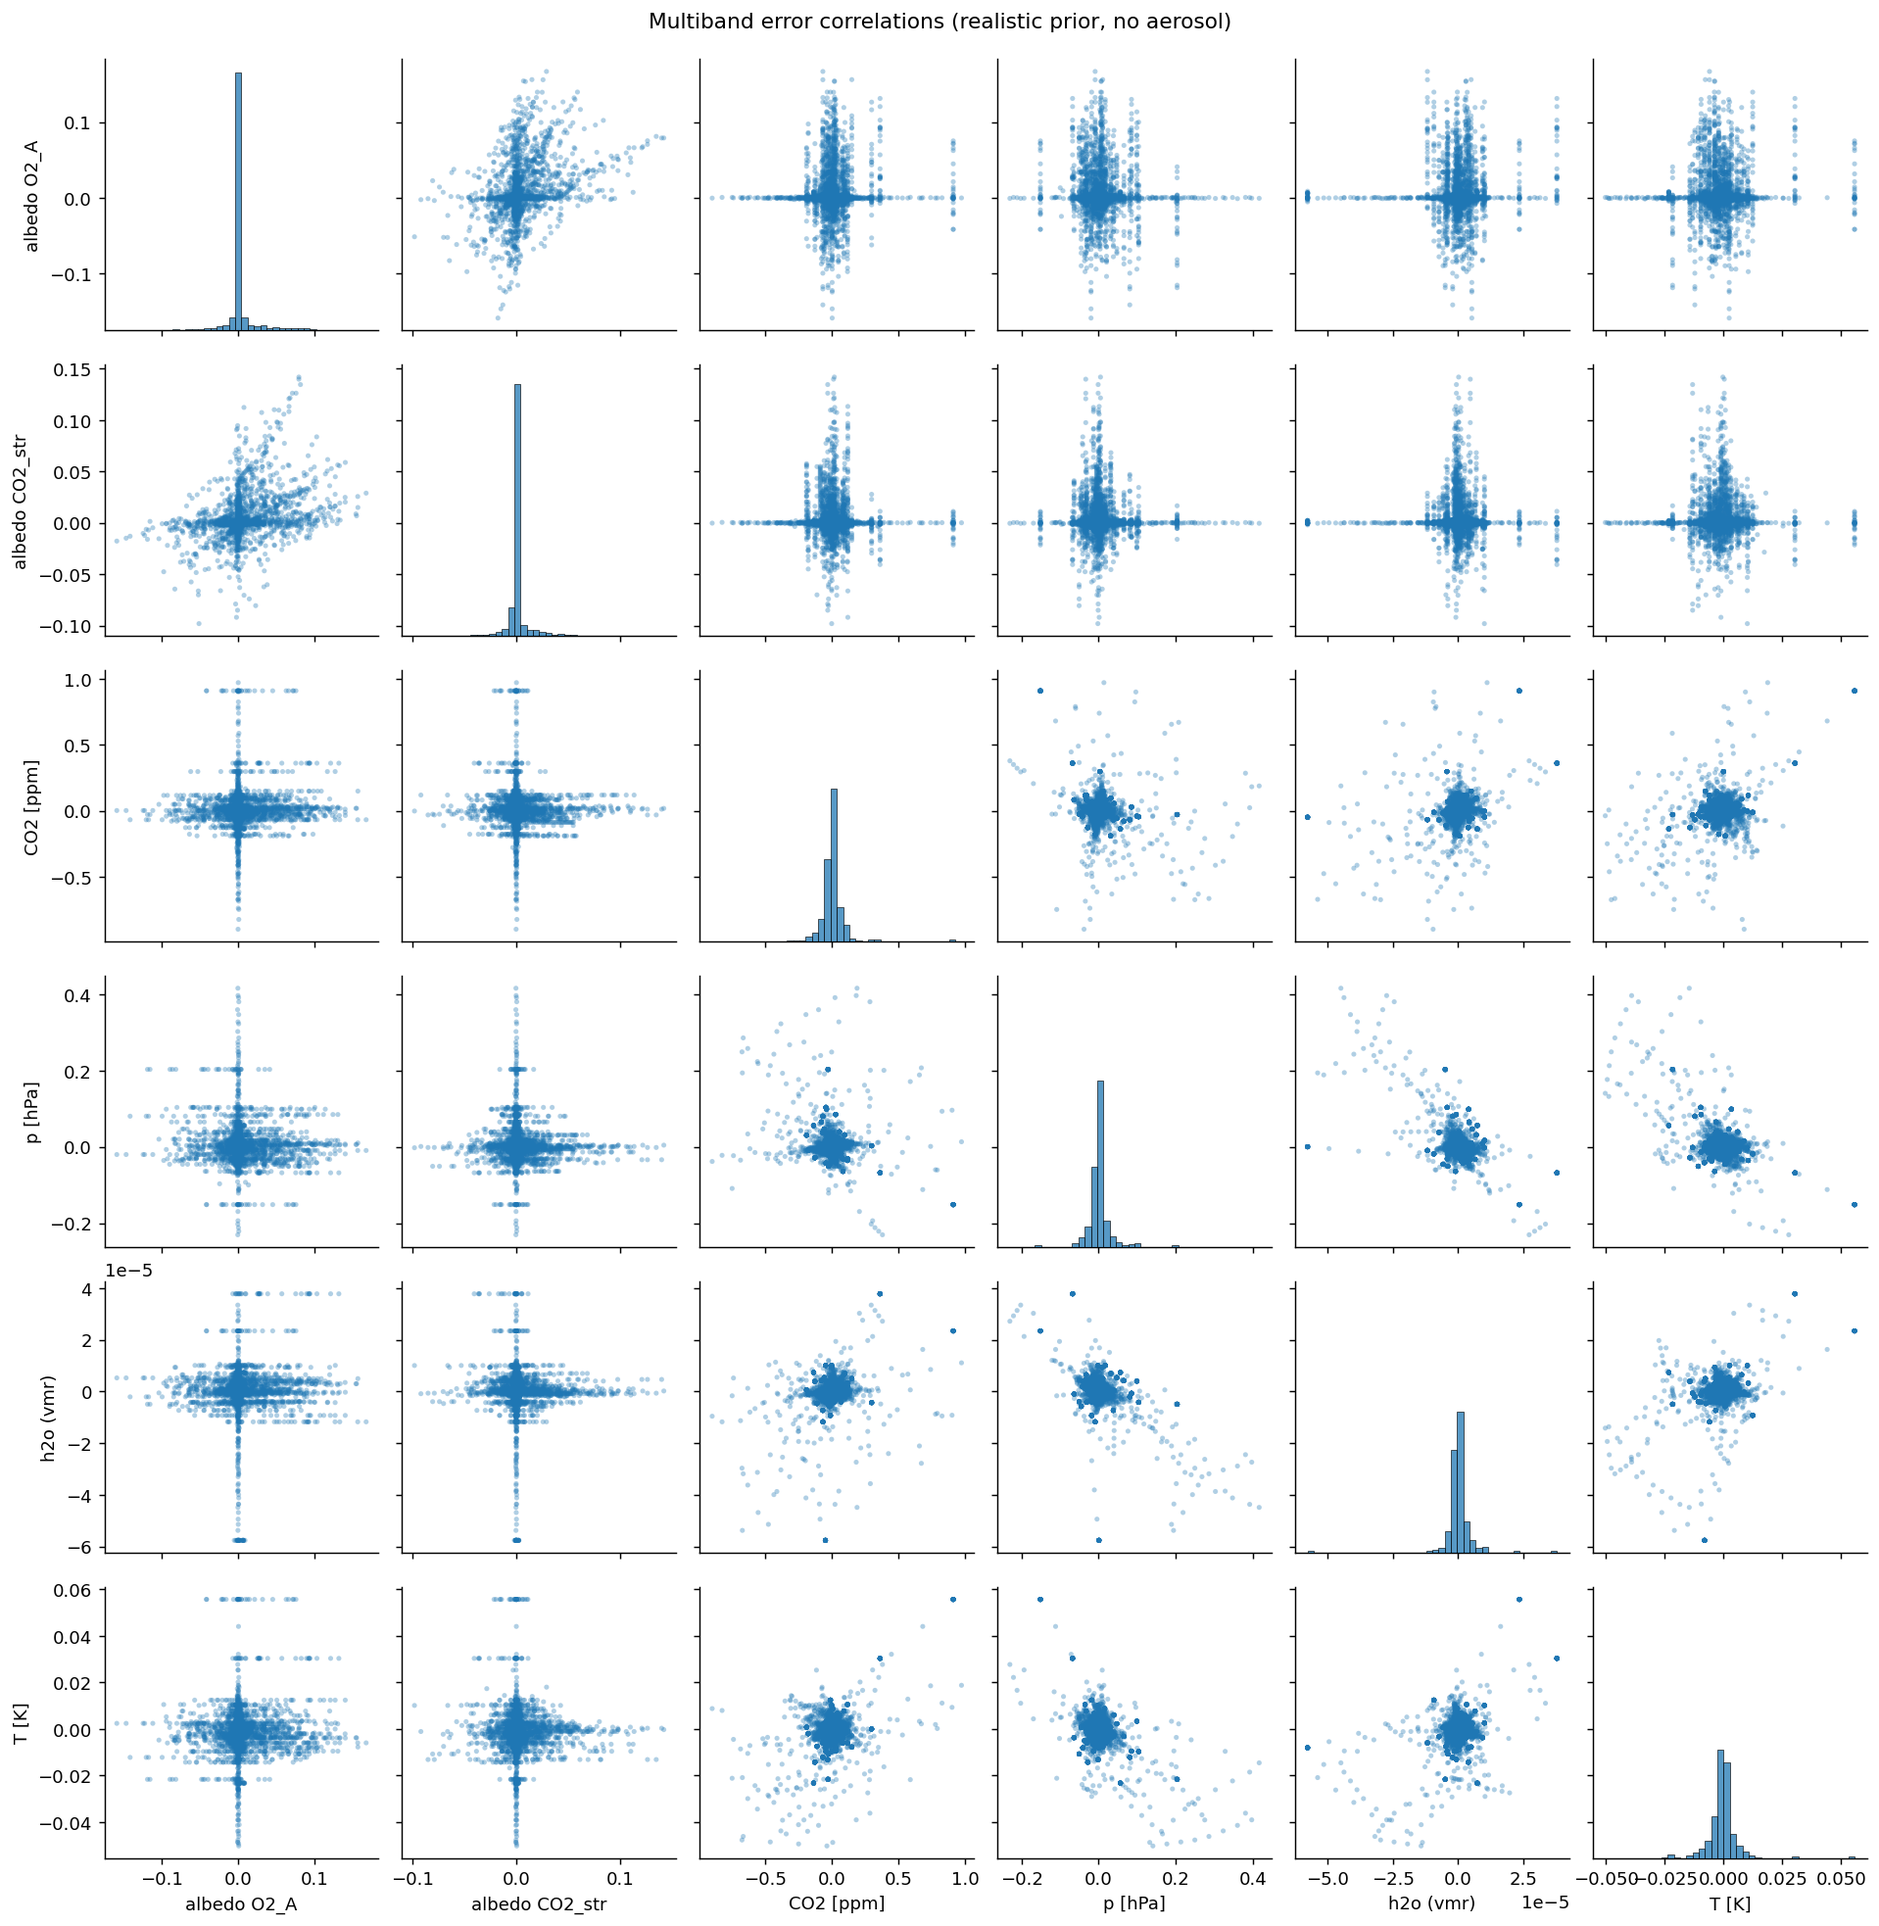
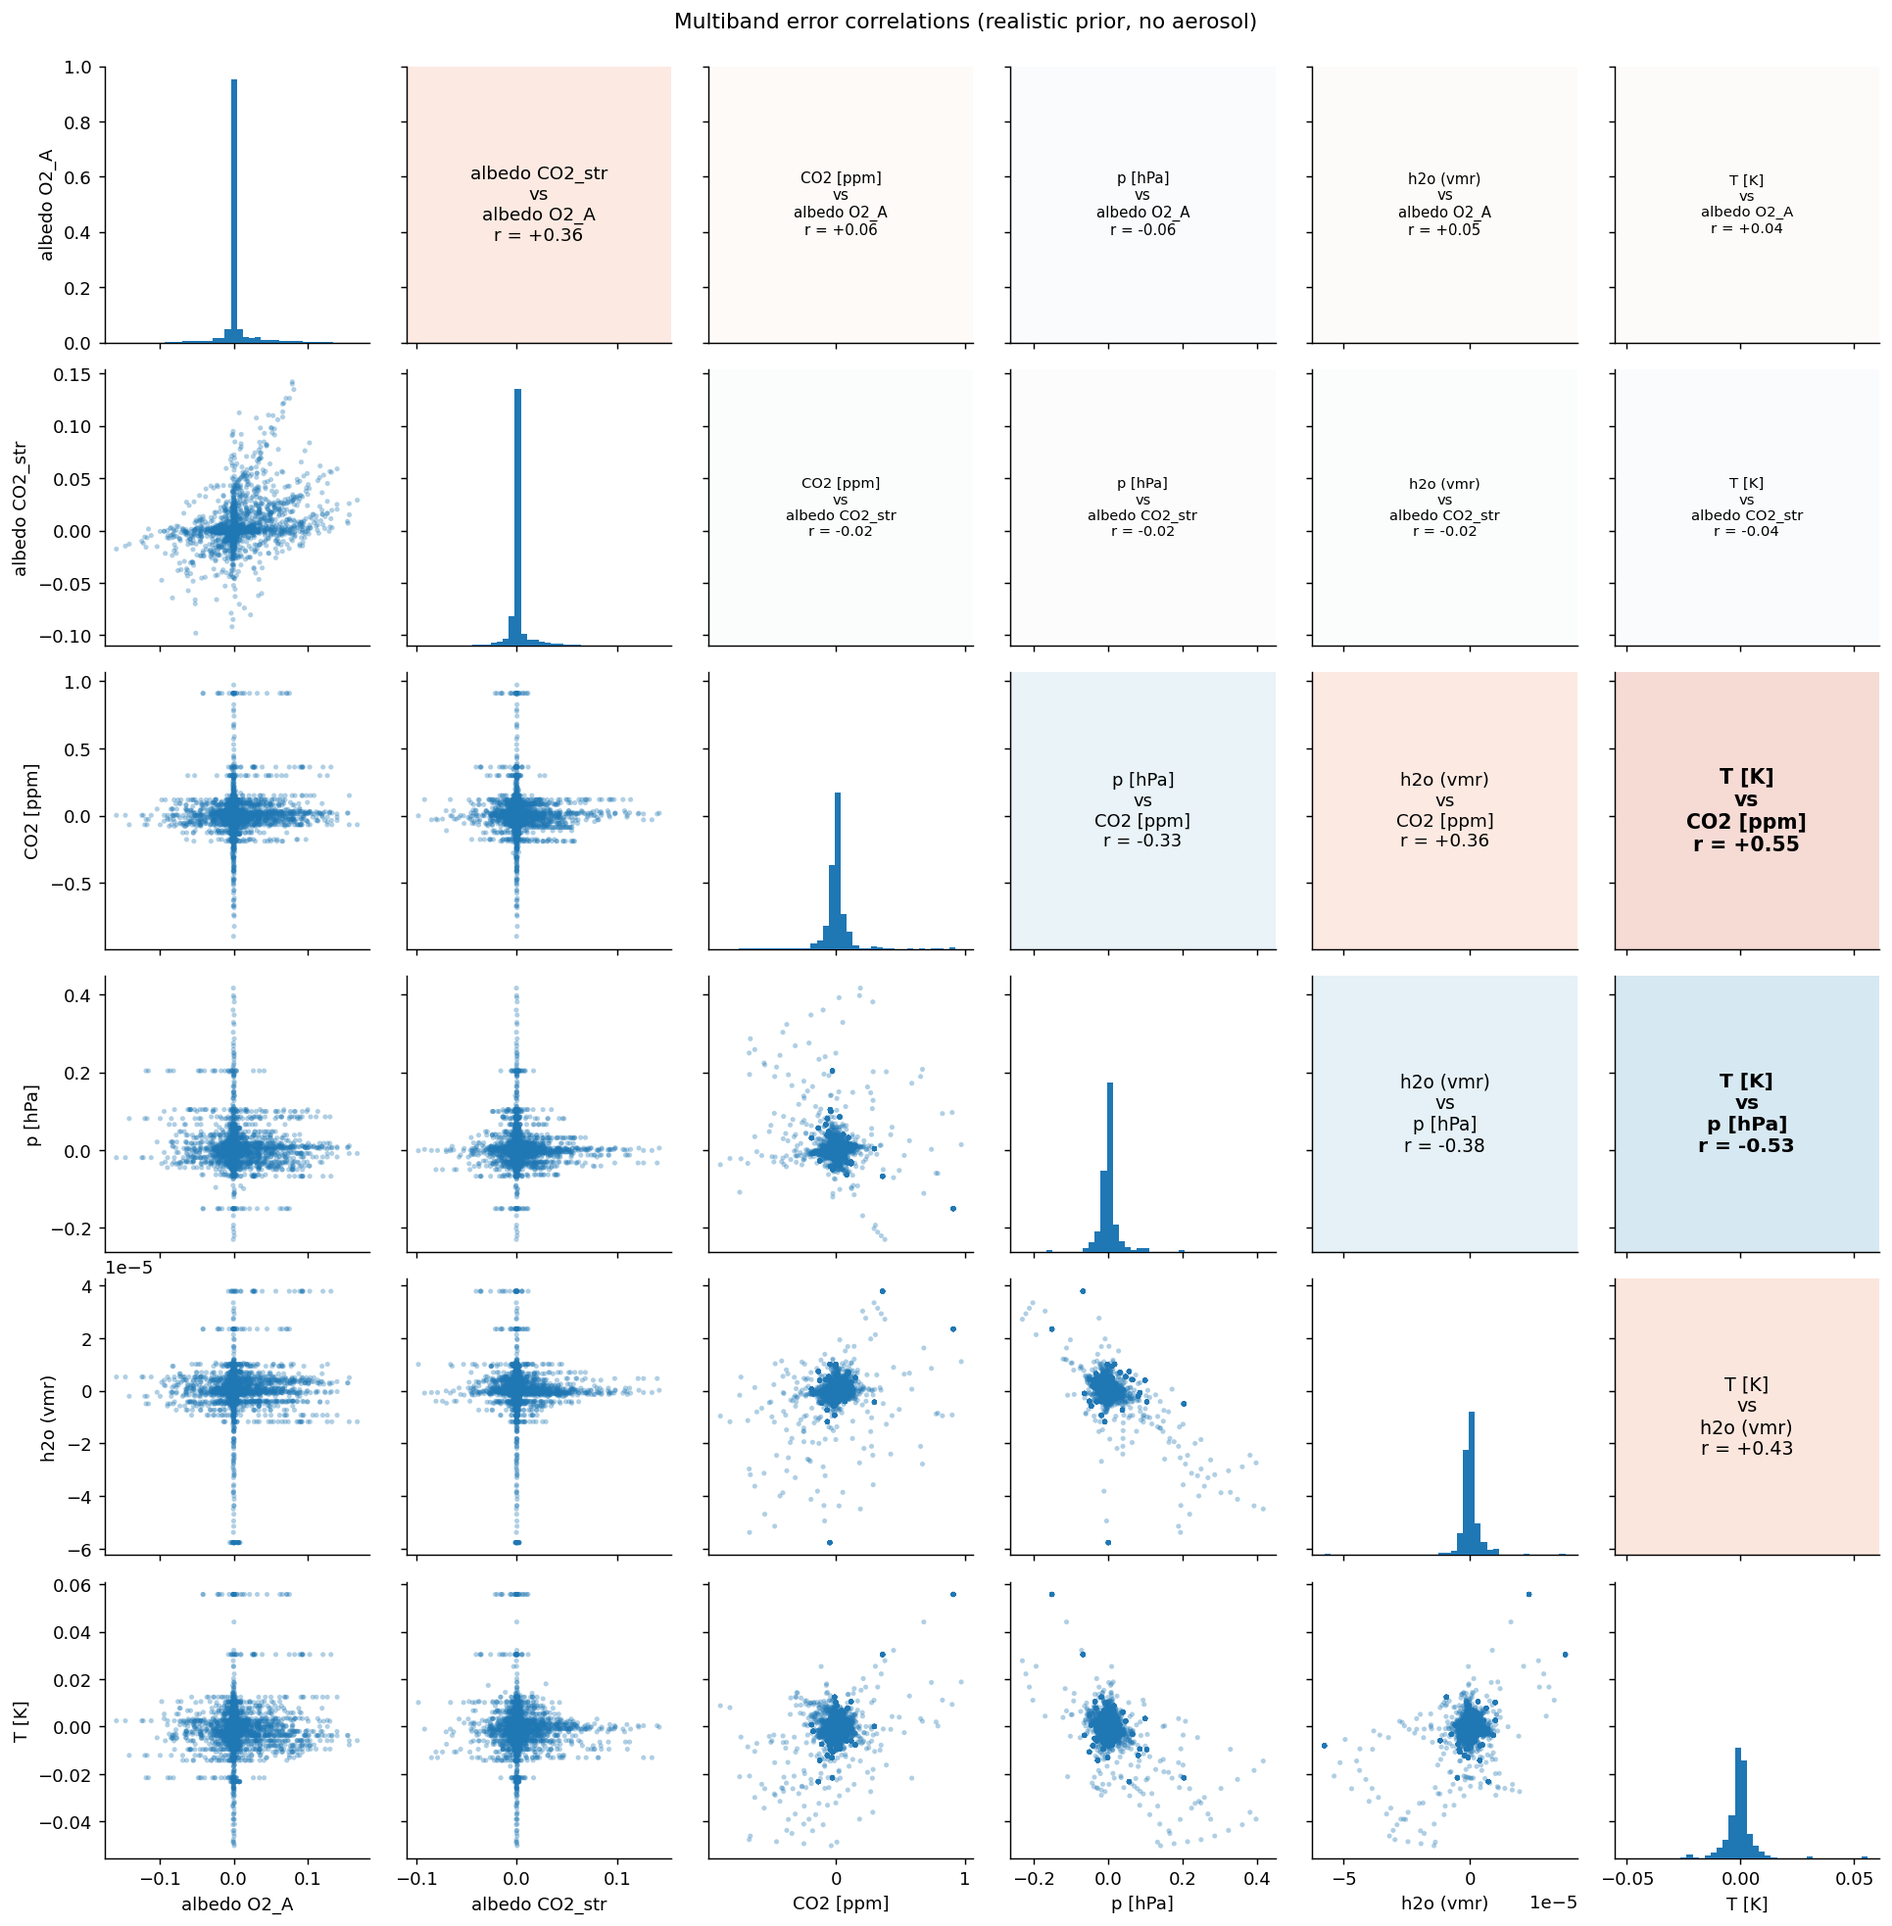
Pairplot: annotate the upper triangle with each pair's names and Pearson r
Switched from sns.pairplot's convenience wrapper to sns.PairGrid (map_diag=hist, map_lower=
scatter, map_upper=a custom annotate_corr) so the upper triangle shows 'X vs Y / r = ...' text
directly on each panel, with background shading and bold text scaled by |r| -- strong pairs
(CO2/h2o 0.81, amp_aer/height_aer 0.80 in the aerosol arm) are visible without cross-referencing
the printed correlation matrix (2026-09-23, user: 'update the grid with labels that have the
names of the pairwise variables and the correlation between them').

Claude-Session: https://claude.ai/code/session_01F6HLSeGTXguZfKDC2CaZzV

diff --git a/scripts/plot_multiband_error_pairplot.py b/scripts/plot_multiband_error_pairplot.py
@@ -87,8 +87,22 @@ print(f"{len(files)} tiles, {len(df)} bins pooled")
 print("\ncorrelation matrix:")
 print(df.corr().round(3).to_string())
 
-g = sns.pairplot(df, diag_kind="hist", plot_kws=dict(s=8, alpha=0.35, edgecolor="none"),
-                 diag_kws=dict(bins=40))
+def annotate_corr(x, y, **kws):
+    """Upper triangle (2026-09-23, user: 'labels that have the names of the pairwise variables
+    and the correlation between them'): each pair's own column names + Pearson r, text size/color
+    scaled by |r| so strong pairs are visually obvious without cross-referencing the printed
+    matrix above."""
+    r = np.corrcoef(x, y)[0, 1]
+    ax = plt.gca()
+    ax.set_facecolor(plt.cm.RdBu_r((r + 1) / 2, alpha=0.25))
+    ax.annotate(f"{x.name}\nvs\n{y.name}\nr = {r:+.2f}", xy=(0.5, 0.5), xycoords=ax.transAxes,
+               ha="center", va="center", fontsize=8 + 6 * abs(r), fontweight="bold" if abs(r) > 0.5 else "normal")
+
+
+g = sns.PairGrid(df)
+g.map_diag(plt.hist, bins=40)
+g.map_lower(sns.scatterplot, s=8, alpha=0.35, edgecolor="none")
+g.map_upper(annotate_corr)
 g.figure.suptitle(f"Multiband error correlations ({PRIOR} prior{', aerosol' if AEROSOL else ', no aerosol'})",
                   y=1.01)
 out = REPO / f"plots/multiband_error_pairplot{PSUF}{ASUF}.png"
